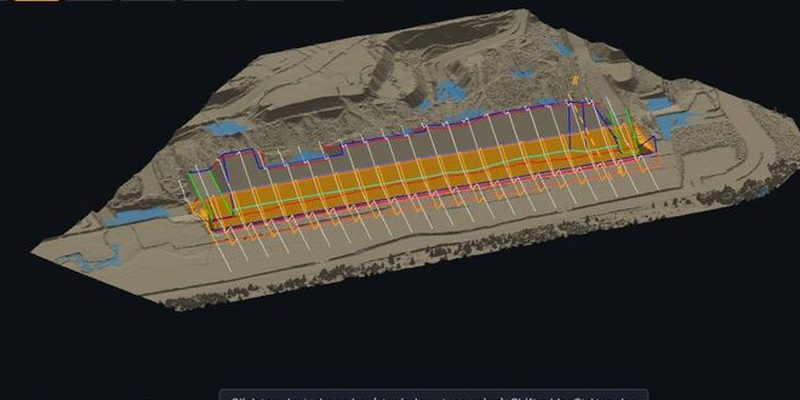
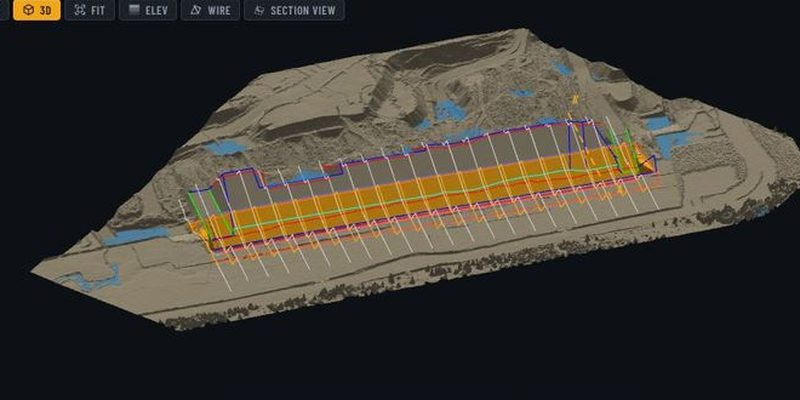
Lead with consulting and on-site support; add ACN
- Hero and consulting focus on dragline, drill & blast, truck & shovel
  and mid-term design, with an on-site support band; design and pit
  water studies kept as engineering studies
- Formal company details: DUMC Pty Ltd, registered with ASIC,
  ACN 695 871 482 (site, JSON-LD, privacy and terms pages)
- Contact form topics updated; water thumbnail recropped

Claude-Session: https://claude.ai/code/session_0155Kz5NNgsu3zcyAqUNDbHH

diff --git a/index.html b/index.html
@@ -3,13 +3,13 @@
 <head>
 <meta charset="UTF-8" />
 <meta name="viewport" content="width=device-width, initial-scale=1" />
-<title>DUMC — Mining Engineering Consulting &amp; AI Set-up | Queensland</title>
-<meta name="description" content="Open-cut mine design and planning, and pit water and storm studies, backed by our own browser-based mine design software. Plus practical AI set-up for your team. Queensland-based, Australia-wide." />
+<title>DUMC Pty Ltd — Mining Engineering Consulting &amp; On-site Support | Queensland</title>
+<meta name="description" content="DUMC Pty Ltd: mining engineering consulting and on-site support for open-cut operations — dragline, drill &amp; blast, truck &amp; shovel and mid-term design. Queensland-based, Australia-wide." />
 <link rel="canonical" href="https://dumc.com.au/" />
 <meta property="og:type" content="website" />
 <meta property="og:locale" content="en_AU" />
-<meta property="og:title" content="DUMC — Mining engineering consulting &amp; AI set-up" />
-<meta property="og:description" content="Mine design and planning, and pit water studies, backed by our own design software. Practical AI set-up for your team." />
+<meta property="og:title" content="DUMC Pty Ltd — Mining engineering consulting &amp; on-site support" />
+<meta property="og:description" content="Dragline, drill &amp; blast, truck &amp; shovel and mid-term design consulting, with on-site engineering support." />
 <meta property="og:url" content="https://dumc.com.au/" />
 <meta name="theme-color" content="#111519" />
 <link rel="icon" href="favicon.svg" type="image/svg+xml" />
@@ -21,15 +21,17 @@
   "@context": "https://schema.org",
   "@type": "ProfessionalService",
   "name": "DUMC Pty Ltd",
+  "legalName": "DUMC Pty Ltd",
+  "identifier": { "@type": "PropertyValue", "propertyID": "ACN", "value": "695 871 482" },
   "url": "https://dumc.com.au/",
   "email": "account@dumc.com.au",
-  "description": "Mining engineering consulting (open-cut mine design and planning, pit water and storm studies) backed by in-house mine design software, plus AI set-up and support for Australian businesses.",
+  "description": "Mining engineering consulting and on-site support for open-cut operations: dragline, drill and blast, truck and shovel, and mid-term design, backed by in-house mine design software.",
   "areaServed": { "@type": "Country", "name": "Australia" },
   "address": { "@type": "PostalAddress", "addressRegion": "QLD", "addressCountry": "AU" },
-  "knowsAbout": ["Open-cut mine design", "Mine planning", "Pit water management", "Mine planning software", "AI implementation"]
+  "knowsAbout": ["Dragline mine design", "Drill and blast design", "Truck and shovel mine design", "Mid-term mine planning", "On-site mining engineering support", "Pit water management"]
 }
 </script>
-<!-- ACN / ABN: add here and in the footer once confirmed. -->
+<!-- ACN 695 871 482. ABN: add to the contact list and footer once issued. -->
 <style>
 :root{
   --ground:#111519;--chrome:#181d23;--panel:#1d232a;--panel2:#242b33;--rule:#2f3741;--rule2:#3b4550;
@@ -235,15 +237,28 @@ footer a{color:var(--muted)}
 .sw2 .modules{grid-template-columns:1fr 1fr}
 @media (max-width:560px){.sw2 .modules{grid-template-columns:1fr}}
 @media (prefers-reduced-motion:reduce){.shot.on .kb,.shot.on .callout,.shot.on::after{animation:none}.shot.on .callout{opacity:1}.show-tabs button.on .bar{animation:none;width:100%}}
+.brand .legal{font:600 .62rem var(--f-cond);letter-spacing:1.2px;text-transform:uppercase;color:var(--faint);margin-left:4px;align-self:flex-end;padding-bottom:4px}
+.cards.disc{grid-template-columns:repeat(4,1fr)}
+@media (max-width:1100px){.cards.disc{grid-template-columns:1fr 1fr}}
+@media (max-width:620px){.cards.disc{grid-template-columns:1fr}}
+.onsite{display:grid;grid-template-columns:.9fr 1.1fr;gap:28px;align-items:center;margin-top:28px;padding:26px;background:var(--panel);border:1px solid var(--rule);border-left:3px solid var(--accent);border-radius:6px}
+@media (max-width:900px){.onsite{grid-template-columns:1fr}}
+.onsite h3{font-size:1.6rem}
+.tiles2{list-style:none;margin:0;padding:0;display:grid;grid-template-columns:1fr 1fr;gap:14px}
+@media (max-width:560px){.tiles2{grid-template-columns:1fr}}
+.tiles2 li{border-left:2px solid var(--accent);padding:2px 0 2px 12px}
+.tiles2 b{display:block;font:600 1.02rem var(--f-cond)}
+.tiles2 span{font-size:.9rem;color:var(--muted)}
 </style>
 </head>
 <body>
 
 <header>
   <div class="wrap">
-    <a class="brand" href="#top" aria-label="DUMC home"><img src="favicon.svg" alt="" /><span>DU<b>MC</b></span></a>
+    <a class="brand" href="#top" aria-label="DUMC home"><img src="favicon.svg" alt="" /><span>DU<b>MC</b></span><small class="legal">Pty Ltd</small></a>
     <nav aria-label="Main">
       <a href="#consulting">Consulting</a>
+      <a href="#onsite">On-site support</a>
       <a href="#software">Software</a>
       <a href="#ai">AI set-up</a>
       <a href="#contact">Contact</a>
@@ -257,17 +272,19 @@ footer a{color:var(--muted)}
   <div class="hero">
     <div class="wrap grid">
       <div>
-        <span class="label">Mining engineering · 3D software · AI</span>
-        <h1>Mine design studies, engineered in our own 3D software.</h1>
-        <p class="lead">DUMC helps open-cut operations with mine design and planning, and with pit water and storm studies. We also set up practical AI tools for your team, so engineers spend less time on reports and more on the work.</p>
+        <span class="label">DUMC Pty Ltd · Mining engineering consulting · Queensland</span>
+        <h1>Mining engineering consulting and on-site support.</h1>
+        <p class="lead">Engineering for open-cut operations: dragline, drill &amp; blast, truck &amp; shovel and mid-term design, delivered from our office or on your site. Our work is backed by our own 3D mine design software, and we also set up practical AI tools for engineering teams.</p>
         <div class="ctas">
           <a class="btn" href="#contact">Discuss a project</a>
-          <a class="btn ghost" href="#software">See our software</a>
+          <a class="btn ghost" href="#consulting">Our services</a>
         </div>
-        <ul class="chips" aria-label="Why DUMC">
-          <li>Queensland-based, Australia-wide</li>
-          <li>Fixed-price quotes in AUD</li>
-          <li>Confidential by default</li>
+        <ul class="chips" aria-label="Disciplines">
+          <li>Dragline</li>
+          <li>Drill &amp; blast</li>
+          <li>Truck &amp; shovel</li>
+          <li>Mid-term design</li>
+          <li>On-site support</li>
         </ul>
       </div>
 
@@ -290,13 +307,79 @@ footer a{color:var(--muted)}
     <div class="wrap">
       <div class="head rv">
         <span class="label">Consulting</span>
-        <h2>Engineering studies for open-cut operations</h2>
-        <p>Practical, checkable work: design surfaces, sections, volumes and reports your team can review and use.</p>
+        <h2>Mining engineering for open-cut operations</h2>
+        <p>Our core work is engineering consulting for the main open-cut mining methods, from mid-term designs to day-to-day support of the site team.</p>
+      </div>
+      <div class="cards disc rv">
+        <article class="card">
+          <span class="tag">01 · dragline</span>
+          <h3>Dragline</h3>
+          <p>Strip and pit designs that work for the dragline, its pads and its spoil room.</p>
+          <ul>
+            <li>Strip, key cut and extended bench design</li>
+            <li>Pad and bench levels, dig sequences</li>
+            <li>Spoil room and rehandle checks</li>
+            <li>Volumes by strip and block</li>
+          </ul>
+        </article>
+        <article class="card">
+          <span class="tag">02 · d&amp;b</span>
+          <h3>Drill &amp; blast</h3>
+          <p>Drill and blast designs matched to the mine plan and the rock.</p>
+          <ul>
+            <li>Pattern design: burden, spacing and hole depth</li>
+            <li>Cast and through-seam blast design</li>
+            <li>Powder factor and blast volumes</li>
+            <li>Drill plans and blast reconciliation</li>
+          </ul>
+        </article>
+        <article class="card">
+          <span class="tag">03 · truck &amp; shovel</span>
+          <h3>Truck &amp; shovel</h3>
+          <p>Pit, ramp and dump designs for truck and shovel fleets.</p>
+          <ul>
+            <li>Pit shells, benches, ramps and haul roads</li>
+            <li>Waste dump and prestrip designs</li>
+            <li>Cut/fill volumes by block or polygon</li>
+            <li>Sequencing support for the schedule</li>
+          </ul>
+        </article>
+        <article class="card">
+          <span class="tag">04 · mid-term</span>
+          <h3>Mid-term design</h3>
+          <p>Practical designs and plans for the next few months to two years.</p>
+          <ul>
+            <li>Mid-term pit, strip and dump designs</li>
+            <li>Sections, toes and crests for review</li>
+            <li>Volume reconciliation against design</li>
+            <li>Budget and forecast support</li>
+          </ul>
+        </article>
+      </div>
+
+      <div class="onsite rv" id="onsite">
+        <div>
+          <span class="label">On-site support</span>
+          <h3>Engineering support on your site</h3>
+          <p class="muted">When you need an engineer on the ground: short-term cover, shutdowns, project work or regular roster-based support, with remote support between visits.</p>
+          <a class="btn" href="#contact">Book site support</a>
+        </div>
+        <ul class="tiles2">
+          <li><b>Roster-based support</b><span>Regular site days or swings, agreed up front.</span></li>
+          <li><b>Leave &amp; vacancy cover</b><span>Backfill for site mining engineers.</span></li>
+          <li><b>Projects &amp; shutdowns</b><span>Short, defined pieces of engineering work.</span></li>
+          <li><b>Remote between visits</b><span>Designs, volumes and reports turned around off site.</span></li>
+        </ul>
+      </div>
+
+      <div class="head rv" style="margin-top:44px">
+        <span class="label">Engineering studies</span>
+        <h3 style="font-size:1.5rem">Design and water studies</h3>
       </div>
       <div class="cards rv" style="grid-template-columns:repeat(auto-fit,minmax(300px,1fr))">
         <article class="card">
           <div class="thumb"><img src="assets/work/thumb-design.jpg" alt="3D design view with section lines across the design" loading="lazy" /></div>
-          <span class="tag">01 · design</span>
+          <span class="tag">design</span>
           <h3>Mine design &amp; planning</h3>
           <p>Pit, ramp and dump designs worked from your survey and geological surfaces.</p>
           <ul>
@@ -308,7 +391,7 @@ footer a{color:var(--muted)}
         </article>
         <article class="card">
           <div class="thumb"><img src="assets/work/thumb-water.jpg" alt="Water model: ponds forming across the ground during a design storm" loading="lazy" /></div>
-          <span class="tag">02 · water</span>
+          <span class="tag">water</span>
           <h3>Pit water &amp; storm studies</h3>
           <p>How design storms fill and spill across your pit, and what it takes to pump it out.</p>
           <ul>
@@ -428,6 +511,10 @@ footer a{color:var(--muted)}
         <p class="muted">A few lines on the site, the question and the timeframe is enough. We reply within one business day, and we're happy to sign an NDA first.</p>
         <ul class="lines">
           <li><span>Email</span><a href="mailto:account@dumc.com.au">account@dumc.com.au</a></li>
+          <li><span>Company</span>DUMC Pty Ltd</li>
+          <li><span>Registered</span>Australian proprietary company, registered with ASIC</li>
+          <li><span>ACN</span>695 871 482</li>
+          <!-- <li><span>ABN</span>xx xxx xxx xxx</li> -->
           <li><span>Based</span>Queensland · working Australia-wide</li>
           <li><span>Hours</span>Mon–Fri, AEST</li>
         </ul>
@@ -443,6 +530,11 @@ footer a{color:var(--muted)}
         </div>
         <label>Topic
           <select name="topic">
+            <option>Dragline</option>
+            <option>Drill &amp; blast</option>
+            <option>Truck &amp; shovel</option>
+            <option>Mid-term design</option>
+            <option>On-site support</option>
             <option>Mine design &amp; planning</option>
             <option>Pit water &amp; storm study</option>
             <option>Mine design software</option>
@@ -461,7 +553,7 @@ footer a{color:var(--muted)}
 
 <footer>
   <div class="wrap">
-    <span>© <span id="yr">2026</span> DUMC Pty Ltd · Queensland, Australia</span>
+    <span>© <span id="yr">2026</span> DUMC Pty Ltd · Australian proprietary company registered with ASIC · ACN 695 871 482 · Queensland<!-- · ABN xx xxx xxx xxx --></span>
     <span><a href="privacy.html">Privacy</a> · <a href="terms.html">Terms</a> · <a href="workstation.html">Interactive site</a></span>
   </div>
 </footer>

diff --git a/privacy.html b/privacy.html
@@ -43,7 +43,7 @@
     <div class="phead"><span class="idx">DOC</span><span>Privacy Policy</span><span class="meta">docs/legal/privacy-policy.md</span></div>
     <div class="prose">
 <h1>Privacy Policy</h1>
-<p><strong>DUMC Pty Ltd</strong> (ACN [ACN], ABN [ABN]) ("<strong>DUMC</strong>", "<strong>we</strong>", "<strong>us</strong>")
+<p><strong>DUMC Pty Ltd</strong> (ACN 695 871 482) ("<strong>DUMC</strong>", "<strong>we</strong>", "<strong>us</strong>")
 Website: https://dumc.com.au</p>
 <p>Last updated: 9 November 2026</p>
 <h2>1. Our approach</h2>
@@ -114,7 +114,7 @@ Website: https://dumc.com.au</p>
 <p>We may update this policy from time to time. The current version will always be on our website, with the date it was last updated.</p>
 <h2>12. Contact us</h2>
 <p>DUMC Pty Ltd
-[Registered office address]
+Queensland, Australia
 Enquiries (general, privacy and billing): <a href="&#109;&#97;&#105;&#108;&#116;&#111;&#58;&#97;&#99;&#99;&#111;&#117;&#110;&#116;&#64;&#100;&#117;&#109;&#99;&#46;&#99;&#111;&#109;&#46;&#97;&#117;">&#97;&#99;&#99;&#111;&#117;&#110;&#116;&#64;&#100;&#117;&#109;&#99;&#46;&#99;&#111;&#109;&#46;&#97;&#117;</a></p>
     </div>
   </article>

diff --git a/terms.html b/terms.html
@@ -43,7 +43,7 @@
     <div class="phead"><span class="idx">DOC</span><span>Website Terms of Use</span><span class="meta">docs/legal/website-terms.md</span></div>
     <div class="prose">
 <h1>Website Terms of Use</h1>
-<p>These terms apply to your use of https://dumc.com.au (the <strong>Site</strong>), which is operated by DUMC Pty Ltd (ACN [ACN], ABN [ABN]) ("<strong>DUMC</strong>", "<strong>we</strong>", "<strong>us</strong>"). By using the Site, you agree to these terms.</p>
+<p>These terms apply to your use of https://dumc.com.au (the <strong>Site</strong>), which is operated by DUMC Pty Ltd (ACN 695 871 482) ("<strong>DUMC</strong>", "<strong>we</strong>", "<strong>us</strong>"). By using the Site, you agree to these terms.</p>
 <h2>1. Information only</h2>
 <p>The Site gives general information about DUMC and our services. It is not professional, technical, engineering or financial advice, and it is not an offer to supply services. Any services we supply will be covered by a separate written agreement.</p>
 <h2>2. No warranties on content</h2>

diff --git a/docs/legal/privacy-policy.md b/docs/legal/privacy-policy.md
@@ -2,7 +2,7 @@
 
 # Privacy Policy
 
-**DUMC Pty Ltd** (ACN [ACN], ABN [ABN]) ("**DUMC**", "**we**", "**us**")
+**DUMC Pty Ltd** (ACN 695 871 482) ("**DUMC**", "**we**", "**us**")
 Website: https://dumc.com.au
 
 Last updated: 9 November 2026
@@ -99,5 +99,5 @@ We may update this policy from time to time. The current version will always be 
 ## 12. Contact us
 
 DUMC Pty Ltd
-[Registered office address]
+Queensland, Australia
 Enquiries (general, privacy and billing): account@dumc.com.au

diff --git a/docs/legal/website-terms.md b/docs/legal/website-terms.md
@@ -2,7 +2,7 @@
 
 # Website Terms of Use
 
-These terms apply to your use of https://dumc.com.au (the **Site**), which is operated by DUMC Pty Ltd (ACN [ACN], ABN [ABN]) ("**DUMC**", "**we**", "**us**"). By using the Site, you agree to these terms.
+These terms apply to your use of https://dumc.com.au (the **Site**), which is operated by DUMC Pty Ltd (ACN 695 871 482) ("**DUMC**", "**we**", "**us**"). By using the Site, you agree to these terms.
 
 ## 1. Information only
 
